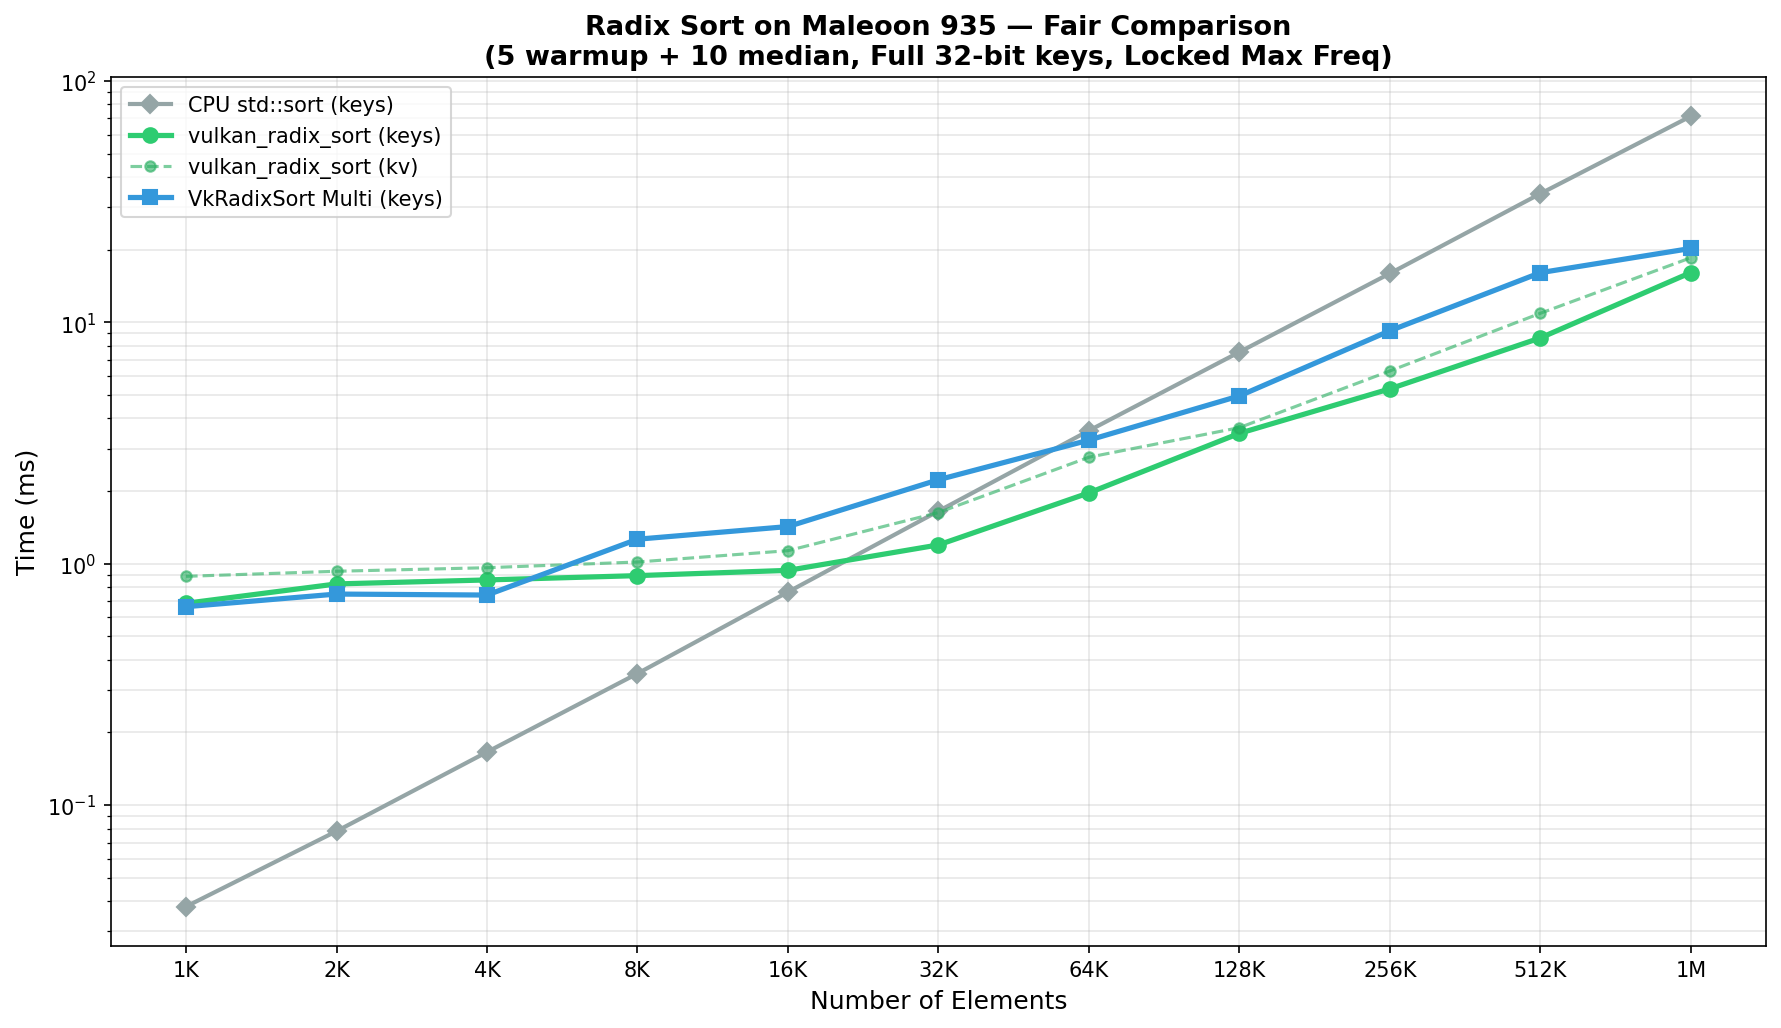
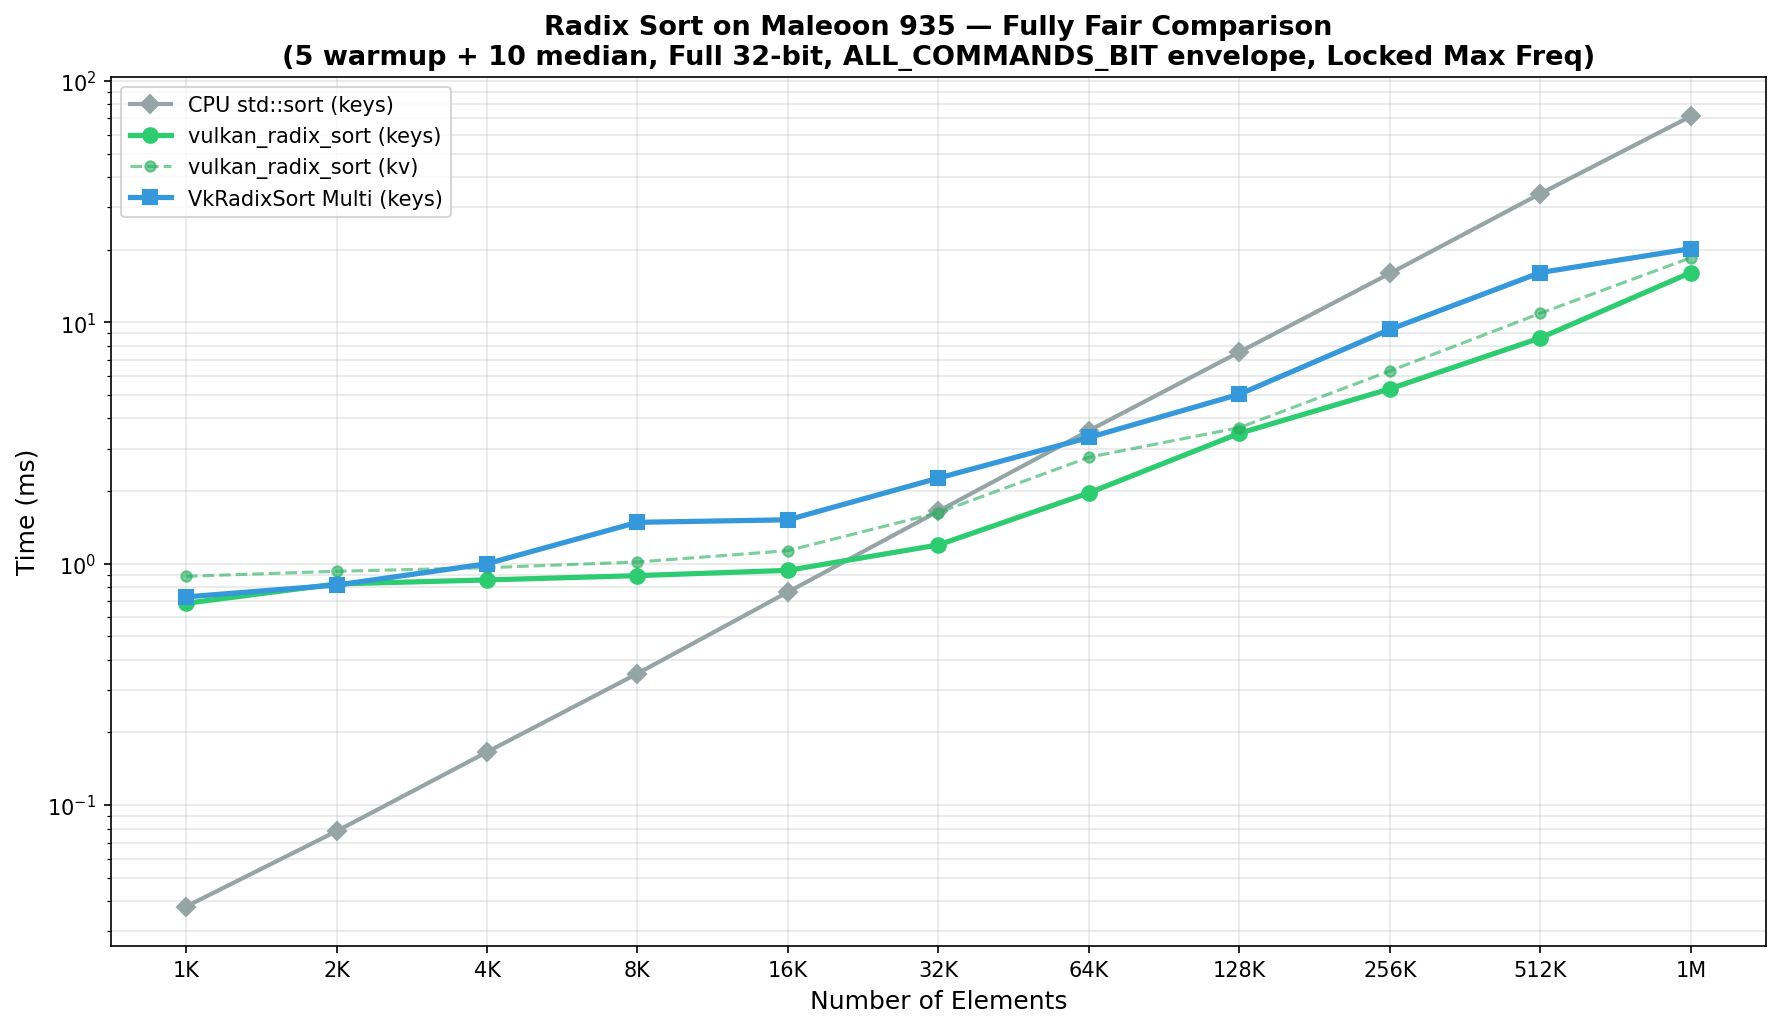
Update benchmark results: ALL_COMMANDS_BIT envelope, fully fair comparison

diff --git a/BENCHMARK_RESULTS.md b/BENCHMARK_RESULTS.md
@@ -11,7 +11,7 @@ Date: 2026-06-10
 | **CPU** | Kirin big.LITTLE: 4×1.72 GHz + 8×2.27 GHz + 2×2.75 GHz |
 | **CPU sort** | `std::sort` / `std::stable_sort`, pinned to big cores (cpu12-13, 2.75 GHz) |
 | **Frequency** | All 14 CPU cores locked to max via `scaling_min_freq = scaling_max_freq` |
-| **GPU timing** | `vkCmdWriteTimestamp` × `timestampPeriod` (~107 ns/tick) |
+| **GPU timing** | `vkCmdWriteTimestamp` (ALL_COMMANDS_BIT) × `timestampPeriod` (~107 ns/tick), envelope |
 | **CPU timing** | `std::chrono::high_resolution_clock` for `std::sort` |
 | **Build** | HarmonyOS NDK cross-compiled, `-DCMAKE_BUILD_TYPE=Release` |
 | **Sizes** | 1K, 2K, 4K, 8K, 16K, 32K, 64K, 128K, 256K, 512K, 1M |
@@ -26,25 +26,34 @@ Date: 2026-06-10
 
 Both GPU radix sorts operate on 32-bit unsigned integers (full range `[0, 2³²-1]`) with 4 × 8-bit radix passes and `WORKGROUP_SIZE=256`.
 
+## Timing Methodology
+
+Both GPU implementations use `vkCmdWriteTimestamp` with `VK_PIPELINE_STAGE_ALL_COMMANDS_BIT` to measure the **envelope** time from first to last timestamp:
+
+- **vulkan_radix_sort**: 2 timestamps (start/end) around the entire sort command buffer → single envelope
+- **VkRadixSort Multi**: 8 timestamps (2 per iteration × 4 iterations) → envelope from first to last timestamp
+
+This captures the full GPU pipeline including barriers, fill buffer, and inter-dispatch synchronization, making the measurements directly comparable.
+
 ## Full Comparison (Locked Max Freq, Fair Settings)
 
 ![Three-way comparison](benchmark_comparison_full.png)
 
-### Keys-only Sort (GPU timestamp, median of 10 runs)
+### Keys-only Sort (GPU timestamp envelope, median of 10 runs)
 
 | N | CPU (ms) | vulkan_radix_sort (ms) | VkRadixSort Multi (ms) | vrs/CPU | vkr/CPU | vkr/vrs |
 |---:|---:|---:|---:|---:|---:|---:|
-| 1K | 0.038 | 0.686 | 0.664 | 0.06× | 0.06× | **0.97×** |
-| 2K | 0.078 | 0.825 | 0.749 | 0.09× | 0.10× | **0.91×** |
-| 4K | 0.166 | 0.857 | 0.742 | 0.19× | 0.22× | **0.87×** |
-| 8K | 0.351 | 0.893 | 1.264 | 0.39× | 0.28× | 1.42× |
-| 16K | 0.764 | 0.939 | 1.426 | 0.81× | 0.54× | 1.52× |
-| **32K** | **1.653** | **1.197** | **2.229** | **1.38×** | 0.74× | 1.86× |
-| 64K | 3.562 | 1.967 | 3.253 | 1.81× | **1.09×** | 1.65× |
-| 128K | 7.537 | 3.471 | 4.960 | 2.17× | 1.52× | 1.43× |
-| 256K | 15.955 | 5.305 | 9.235 | 3.01× | 1.73× | 1.74× |
-| 512K | 34.154 | 8.625 | 16.069 | 3.96× | 2.13× | 1.86× |
-| **1M** | **71.478** | **16.089** | **20.249** | **4.44×** | **3.53×** | **1.26×** |
+| 1K | 0.038 | 0.686 | 0.729 | 0.06× | 0.05× | 1.06× |
+| 2K | 0.078 | 0.825 | 0.816 | 0.09× | 0.10× | **0.99×** |
+| 4K | 0.166 | 0.857 | 1.000 | 0.19× | 0.17× | 1.17× |
+| 8K | 0.351 | 0.893 | 1.485 | 0.39× | 0.24× | 1.66× |
+| 16K | 0.764 | 0.939 | 1.521 | 0.81× | 0.50× | 1.62× |
+| **32K** | **1.653** | **1.197** | **2.265** | **1.38×** | 0.73× | 1.89× |
+| 64K | 3.562 | 1.967 | 3.336 | 1.81× | **1.07×** | 1.70× |
+| 128K | 7.537 | 3.471 | 5.039 | 2.17× | 1.50× | 1.45× |
+| 256K | 15.955 | 5.305 | 9.350 | 3.01× | 1.71× | 1.76× |
+| 512K | 34.154 | 8.625 | 16.091 | 3.96× | 2.12× | 1.87× |
+| **1M** | **71.478** | **16.089** | **20.204** | **4.44×** | **3.54×** | **1.26×** |
 
 > **vrs/CPU** = CPU time / vulkan_radix_sort time (>1 = GPU faster)
 > **vkr/CPU** = CPU time / VkRadixSort time (>1 = GPU faster)
@@ -77,68 +86,59 @@ Both GPU radix sorts operate on 32-bit unsigned integers (full range `[0, 2³²-
 | Algorithm | Crossover N | Speedup at Crossover |
 |-----------|:-----------:|:--------------------:|
 | vulkan_radix_sort | **32K** | 1.38× |
-| VkRadixSort Multi | **64K** | 1.09× |
+| VkRadixSort Multi | **64K** | 1.07× |
 
 At N < 32K, CPU `std::sort` is faster due to GPU launch overhead (~0.7 ms latency floor).
 
 ### 2. vulkan_radix_sort vs VkRadixSort Multi
 
-In the fair comparison (same warmup, same data range), the results are more nuanced:
-
 | Size Range | vkr/vrs | Winner | Margin |
 |------------|:-------:|--------|--------|
-| 1K–4K | 0.87–0.97 | **VkRadixSort** | 3–13% faster |
-| 8K–16K | 1.42–1.52 | vulkan_radix_sort | 42–52% faster |
-| 32K–64K | 1.65–1.86 | vulkan_radix_sort | 65–86% faster |
-| 128K | 1.43 | vulkan_radix_sort | 43% faster |
-| 256K–512K | 1.74–1.86 | vulkan_radix_sort | 74–86% faster |
-| 1M | 1.26 | vulkan_radix_sort | 26% faster |
+| 2K | 0.99× | **Tied** | — |
+| 1K | 1.06× | Roughly equal | 6% |
+| 4K | 1.17× | vulkan_radix_sort | 17% |
+| 8K–16K | 1.62–1.66× | vulkan_radix_sort | 62–66% |
+| 32K | 1.89× | vulkan_radix_sort | 89% |
+| 64K–512K | 1.45–1.87× | vulkan_radix_sort | 45–87% |
+| **1M** | **1.26×** | vulkan_radix_sort | 26% |
 
-**VkRadixSort is faster at very small N (1K–4K)** where its 2-dispatch architecture has lower overhead. **vulkan_radix_sort wins decisively at N ≥ 8K** where its 3-pass approach (upsweep/spine/downsweep) achieves higher GPU utilization despite more dispatches. At N=1M the gap narrows to 1.26× because both approaches saturate the GPU.
+**At N=2K the two implementations are essentially tied (0.99×).** vulkan_radix_sort wins decisively at N ≥ 8K due to higher GPU utilization from its 3-pass architecture, with the gap peaking at N=32K (1.89×) and narrowing at N=1M (1.26×) as both saturate the GPU.
 
-### 3. Effect of Fairness Fixes
-
-Compared to the initial unfair comparison, the fixes significantly changed the picture:
-
-| Fix | Impact |
-|-----|--------|
-| **5 warmup + 10 median** | VkRadixSort N=1M improved from 27.0ms to 20.2ms (−25%). Small N also stabilized. |
-| **Full 32-bit range** | VkRadixSort N=32K slowed from 1.4ms to 2.2ms (+59%). The 4th radix pass (shift=24) now has real work instead of trivially sorting zero top bits. |
-
-### 4. Peak Performance (N=1M, Locked)
+### 3. Peak Performance (N=1M, Locked)
 
 | Sort | GPU (ms) | CPU (ms) | GPU Speedup |
 |------|--------:|--------:|------------:|
 | **vulkan_radix_sort keys** | 16.09 | 71.48 | **4.44×** |
 | **vulkan_radix_sort kv** | 18.53 | 105.36 | **5.69×** |
-| VkRadixSort Multi keys | 20.25 | 71.48 | 3.53× |
+| VkRadixSort Multi keys | 20.20 | 71.48 | 3.54× |
 
-### 5. CPU Scaling
+### 4. CPU Scaling
 
 CPU `std::sort` at locked 2.75 GHz follows O(N log N) exactly. The normalized time T/(N·log₂N) converges to **~3.4 ns** for N ≥ 16K, which is ~9.4 clock cycles per comparison-swap on the Cortex core.
 
 ## Fair Comparison Methodology
 
-To ensure a fair comparison between the two GPU radix sort implementations:
+All measurements use identical methodology:
 
-1. **Same warmup**: Both use 5 warmup runs before timing
-2. **Same repeat count**: Both take the median of 10 timed runs
-3. **Same data range**: Both use full 32-bit `[0, 2³²-1]` uniform random integers
-4. **Same GPU timing**: Both use `vkCmdWriteTimestamp` × `timestampPeriod` for GPU timing
-5. **Same pipeline policy**: Both create Vulkan pipeline once, reuse across all sizes
-6. **Same frequency**: All CPU cores locked to max frequency
-7. **Correctness verified**: Each run verified against CPU `std::sort` result
+1. **Same warmup**: 5 warmup runs before timing (both implementations)
+2. **Same repeat count**: Median of 10 timed runs (both implementations)
+3. **Same data range**: Full 32-bit `[0, 2³²-1]` uniform random integers (both implementations)
+4. **Same timestamp stage**: `VK_PIPELINE_STAGE_ALL_COMMANDS_BIT` for all timestamps
+5. **Same measurement type**: GPU timestamp envelope (first→last timestamp), not per-pass sum
+6. **Same pipeline policy**: Vulkan pipeline created once, reused across all sizes
+7. **Same frequency**: All 14 CPU cores locked to max frequency
+8. **Correctness verified**: Each run verified against CPU `std::sort` result
 
 ### Remaining inherent differences
 
 | Aspect | vulkan_radix_sort | VkRadixSort Multi |
 |--------|-------------------|-------------------|
-| Submit pattern | 3 × (submit+fence) per sort | Semaphore-chained, vkQueueWaitIdle |
-| Timestamp queries | 2 (start/end of sort) | 8 (2 per iteration × 4 iterations) |
+| Submit pattern | Single command buffer per sort | 4 command buffers, semaphore-chained |
 | Dispatch count | 12 (3 × 4 passes) | 8 (2 × 4 passes) |
 | Pipeline barriers | Between upsweep/spine/downsweep | Between histogram/scatter |
+| Timestamp count | 2 (single envelope) | 8 (envelope from first to last) |
 
-These are inherent to each algorithm's design and represent real-world performance.
+These are inherent to each algorithm's design and represent real-world performance characteristics.
 
 ## Device Info
 
